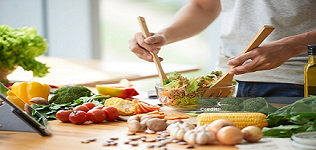
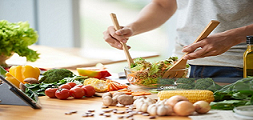
refonte partie frontend --

diff --git a/pages/recettes.html b/pages/recettes.html
@@ -34,12 +34,12 @@
     <section class="recettes">
             <h4>Recette à base de Légumes</h4></div>
             <div>
-                <img src="../images/diete1.png" alt="legumes"/>
+                <img class="rounded" src="../images/diete1.png" alt="legumes"/>
             </div>    
             <div>
                 <ul>
                     <li>Titre: Légume Bio</li>
-                    <li>Description: Le Lorem Ipsum est simplement du faux texte</li>
+                    <li>Description: Le Lorem Ipsum est </li>
                     <li>Les ingrédients: Epinard, carotte ....</li>
                     <li>Temps de préparation: 45 minutes</li>
                     <li>Etapes: Le Lorem Ipsum...</li> 
@@ -49,12 +49,12 @@
     <section class="recettes">
            <h4>Recette de fruits</h4>
            <div>
-               <img src="../images/diete3.png" alt="fruits"/>
+               <img class="rounded" src="../images/diete3.png" alt="fruits"/>
            </div>  
            <div>
                 <ul>
                     <li>Titre: Salade de Fruit</li>
-                    <li>Description: Le Lorem Ipsum est simplement du faux texte...</li>
+                    <li>Description: Le Lorem Ipsum est </li>
                     <li>Les ingrédients: Epinard, carotte ....</li>
                     <li>Temps de préparation: 45 miutes</li>
                     <li>Etapes: Le Lorem Ipsum...</li>

diff --git a/index.scss b/index.scss
@@ -86,7 +86,7 @@ li {
   justify-content: center;
   font-size: larger;
   letter-spacing: 3px;
-  margin-top: 10px;
+  margin-top: 50px;
 }
 #aside > ul > li {
   display: inline;
@@ -182,6 +182,8 @@ section,
 section,
 .recettes {
   display: block;
+  margin: 10px;
+  padding: 5px;
 }
 aside,
 #lien {
@@ -215,7 +217,11 @@ aside,
   color: white;
 }
 ul {
-  display: inline-block;
+  display: inline;
+}
+ul,
+li {
+  text-align: start;
 }
 strong,
 a {

diff --git a/index.css b/index.css
@@ -67,7 +67,7 @@ li a {
   justify-content: center;
   font-size: larger;
   letter-spacing: 3px;
-  margin-top: 10px;
+  margin-top: 50px;
 }
 
 #aside > ul > li {
@@ -184,6 +184,8 @@ section,
 section,
 .recettes {
   display: block;
+  margin: 10px;
+  padding: 5px;
 }
 
 aside,
@@ -224,7 +226,12 @@ aside,
 }
 
 ul {
-  display: inline-block;
+  display: inline;
+}
+
+ul,
+li {
+  text-align: start;
 }
 
 strong,

diff --git a/pages/consultation.html b/pages/consultation.html
@@ -75,7 +75,7 @@
         </div>
         <br>
         <div>
-            <img src="../images/dietetique10.png" alt="recette"/>
+            <img class="rounded" src="../images/dietetique10.png" alt="recette"/>
         </div>    
     </section>
 
